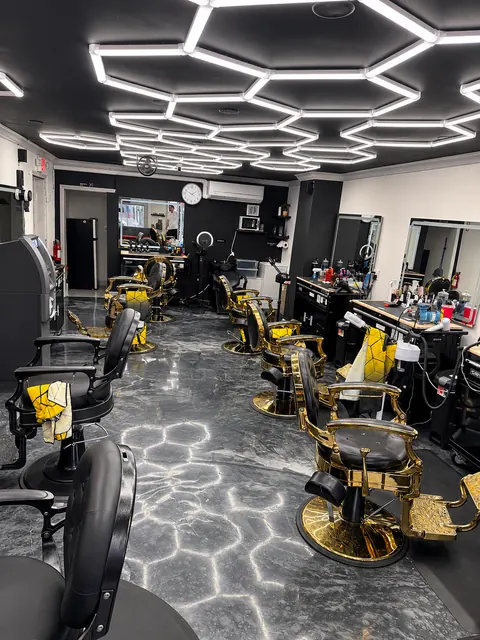
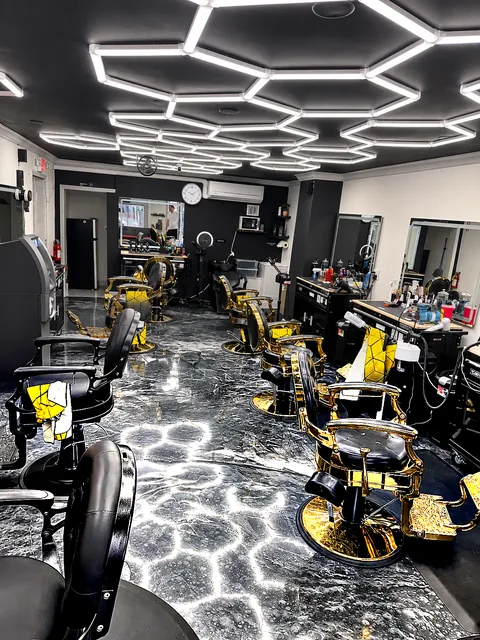
Preview: correct hours (Mon-Sat 9 AM-8 PM, Sun 10 AM-4 PM); brighter floor
- Hours updated in both hours lists, Spanish text, Google structured data,
  and the assistant's fact sheet (+ tests)
- Inside photo: floor given more contrast, clarity and brightness, blended
  in from where the floor starts; walls and ceiling unchanged

Claude-Session: https://claude.ai/code/session_01MXdPPVCrCnhk42nu3wu8wX

Changed region(s): [[0.0, 0.5, 1.0, 1.0], [0.875, 0.5312, 1.0, 0.6562]]

diff --git a/preview/index.html b/preview/index.html
@@ -92,13 +92,13 @@
           "Saturday"
         ],
         "opens": "09:00",
-        "closes": "21:00"
+        "closes": "20:00"
       },
       {
         "@type": "OpeningHoursSpecification",
         "dayOfWeek": "Sunday",
         "opens": "10:00",
-        "closes": "18:00"
+        "closes": "16:00"
       }
     ],
     "priceRange": "$25–$150+",
@@ -325,13 +325,13 @@
       <p class="air-kicker" data-i18n="chair.visit">Hours &amp; directions</p>
       <h2 class="air-title" id="st-visit-title">55 Chelsea St<br>East Boston, MA 02128</h2>
       <dl class="air-hours">
-        <div data-day="1"><dt data-i18n="day.mon">Monday</dt><dd data-i18n="hours.week">9 AM – 9 PM</dd></div>
-        <div data-day="2"><dt data-i18n="day.tue">Tuesday</dt><dd data-i18n="hours.week">9 AM – 9 PM</dd></div>
-        <div data-day="3"><dt data-i18n="day.wed">Wednesday</dt><dd data-i18n="hours.week">9 AM – 9 PM</dd></div>
-        <div data-day="4"><dt data-i18n="day.thu">Thursday</dt><dd data-i18n="hours.week">9 AM – 9 PM</dd></div>
-        <div data-day="5"><dt data-i18n="day.fri">Friday</dt><dd data-i18n="hours.week">9 AM – 9 PM</dd></div>
-        <div data-day="6"><dt data-i18n="day.sat">Saturday</dt><dd data-i18n="hours.week">9 AM – 9 PM</dd></div>
-        <div data-day="0"><dt data-i18n="day.sun">Sunday</dt><dd data-i18n="hours.sun">10 AM – 6 PM</dd></div>
+        <div data-day="1"><dt data-i18n="day.mon">Monday</dt><dd data-i18n="hours.week">9 AM – 8 PM</dd></div>
+        <div data-day="2"><dt data-i18n="day.tue">Tuesday</dt><dd data-i18n="hours.week">9 AM – 8 PM</dd></div>
+        <div data-day="3"><dt data-i18n="day.wed">Wednesday</dt><dd data-i18n="hours.week">9 AM – 8 PM</dd></div>
+        <div data-day="4"><dt data-i18n="day.thu">Thursday</dt><dd data-i18n="hours.week">9 AM – 8 PM</dd></div>
+        <div data-day="5"><dt data-i18n="day.fri">Friday</dt><dd data-i18n="hours.week">9 AM – 8 PM</dd></div>
+        <div data-day="6"><dt data-i18n="day.sat">Saturday</dt><dd data-i18n="hours.week">9 AM – 8 PM</dd></div>
+        <div data-day="0"><dt data-i18n="day.sun">Sunday</dt><dd data-i18n="hours.sun">10 AM – 4 PM</dd></div>
       </dl>
       <p class="air-fine" data-i18n="airport.title">2.2 miles from the airport</p>
       <div class="air-links">
@@ -670,16 +670,16 @@
           <table class="hours-table">
             <caption class="visually-hidden" data-i18n="hours.caption">Opening hours by day</caption>
             <tbody>
-              <tr data-day="1"><th scope="row" data-i18n="day.mon">Monday</th><td data-i18n="hours.week">9 AM – 9 PM</td></tr>
-              <tr data-day="2"><th scope="row" data-i18n="day.tue">Tuesday</th><td data-i18n="hours.week">9 AM – 9 PM</td></tr>
-              <tr data-day="3"><th scope="row" data-i18n="day.wed">Wednesday</th><td data-i18n="hours.week">9 AM – 9 PM</td></tr>
-              <tr data-day="4"><th scope="row" data-i18n="day.thu">Thursday</th><td data-i18n="hours.week">9 AM – 9 PM</td></tr>
-              <tr data-day="5"><th scope="row" data-i18n="day.fri">Friday</th><td data-i18n="hours.week">9 AM – 9 PM</td></tr>
-              <tr data-day="6"><th scope="row" data-i18n="day.sat">Saturday</th><td data-i18n="hours.week">9 AM – 9 PM</td></tr>
-              <tr data-day="0"><th scope="row" data-i18n="day.sun">Sunday</th><td data-i18n="hours.sun">10 AM – 6 PM</td></tr>
+              <tr data-day="1"><th scope="row" data-i18n="day.mon">Monday</th><td data-i18n="hours.week">9 AM – 8 PM</td></tr>
+              <tr data-day="2"><th scope="row" data-i18n="day.tue">Tuesday</th><td data-i18n="hours.week">9 AM – 8 PM</td></tr>
+              <tr data-day="3"><th scope="row" data-i18n="day.wed">Wednesday</th><td data-i18n="hours.week">9 AM – 8 PM</td></tr>
+              <tr data-day="4"><th scope="row" data-i18n="day.thu">Thursday</th><td data-i18n="hours.week">9 AM – 8 PM</td></tr>
+              <tr data-day="5"><th scope="row" data-i18n="day.fri">Friday</th><td data-i18n="hours.week">9 AM – 8 PM</td></tr>
+              <tr data-day="6"><th scope="row" data-i18n="day.sat">Saturday</th><td data-i18n="hours.week">9 AM – 8 PM</td></tr>
+              <tr data-day="0"><th scope="row" data-i18n="day.sun">Sunday</th><td data-i18n="hours.sun">10 AM – 4 PM</td></tr>
             </tbody>
           </table>
-          <p class="fine" data-i18n="hours.note">Hours from Booksy. Holiday hours may differ, so check Booksy before you come.</p>
+          <p class="fine" data-i18n="hours.note">Holiday hours may differ, so check Booksy before you come.</p>
         </div>
       </div>
 

diff --git a/backend/test/run.js b/backend/test/run.js
@@ -179,7 +179,7 @@ const say = (text, lang = "en", extra = []) => call("/api/chat", { messages: [..
   await test("System prompt contains every price, barber and hour, and the no-invent rule", () => {
     const p = systemPrompt("en");
     for (const s of ["$40", "$50", "$60", "$70", "$25", "from $150", "Andres Ospina", "Keven", "Dumar Gomez", "Jean Carlos",
-      "Kevin Tabares", "Santi Vélez", "9 AM – 9 PM", "10 AM – 6 PM", "55 Chelsea St", "(857) 334-9508", "Never invent"]) {
+      "Kevin Tabares", "Santi Vélez", "9 AM – 8 PM", "10 AM – 4 PM", "55 Chelsea St", "(857) 334-9508", "Never invent"]) {
       assert.ok(p.includes(s), "missing " + s);
     }
     assert.ok(systemPrompt("es").includes("use Spanish"));
@@ -191,7 +191,7 @@ const say = (text, lang = "en", extra = []) => call("/api/chat", { messages: [..
   });
   await test("Facts match the website's preview page", () => {
     const html = fs.readFileSync(path.resolve(__dirname, "../../preview/index.html"), "utf8");
-    for (const s of ["Andres Ospina", "Santi Vélez", "$150", "9 AM – 9 PM", "10 AM – 6 PM", "(857) 334-9508", "456"]) {
+    for (const s of ["Andres Ospina", "Santi Vélez", "$150", "9 AM – 8 PM", "10 AM – 4 PM", "(857) 334-9508", "456"]) {
       assert.ok(html.includes(s), "website no longer says " + s);
     }
   });

diff --git a/backend/lib/mock.js b/backend/lib/mock.js
@@ -26,8 +26,8 @@ function reply(messages, siteLang) {
       booking: null, escalate: { summary: "Customer asks about parking." } };
   }
   if (/hour|open|horario|abren|abierto/i.test(last)) {
-    return { text: L("We're open Monday to Saturday 9 AM – 9 PM, and Sunday 10 AM – 6 PM.",
-      "Abrimos de lunes a sábado de 9 a. m. a 9 p. m., y el domingo de 10 a. m. a 6 p. m."), booking: null, escalate: null };
+    return { text: L("We're open Monday to Saturday 9 AM – 8 PM, and Sunday 10 AM – 4 PM.",
+      "Abrimos de lunes a sábado de 9 a. m. a 8 p. m., y el domingo de 10 a. m. a 4 p. m."), booking: null, escalate: null };
   }
   if (/how much|price|cuánto|cuanto|precio/i.test(last) && !/book|reserv/i.test(last)) {
     return { text: beard

diff --git a/backend/lib/knowledge.js b/backend/lib/knowledge.js
@@ -20,10 +20,10 @@ const SHOP = {
   rating: "5.0 on Booksy from 456 reviews",
   languages: ["English", "Spanish"],
   hours: [
-    { days: "Monday to Saturday", hours: "9 AM – 9 PM" },
-    { days: "Sunday", hours: "10 AM – 6 PM" },
+    { days: "Monday to Saturday", hours: "9 AM – 8 PM" },
+    { days: "Sunday", hours: "10 AM – 4 PM" },
   ],
-  hoursNote: "Hours come from Booksy. Holiday hours may differ, so check Booksy before coming.",
+  hoursNote: "Hours confirmed by the shop (Nov 2026). Holiday hours may differ, so check Booksy before coming.",
 };
 
 const SERVICES = [

diff --git a/preview/main.js b/preview/main.js
@@ -78,9 +78,9 @@
     "visit.title": "Encuentra el local",
     "hours.title": "Horario",
     "hours.caption": "Horario por día",
-    "hours.week": "9 a. m. – 9 p. m.",
-    "hours.sun": "10 a. m. – 6 p. m.",
-    "hours.note": "Horario según Booksy. Los días festivos puede cambiar; revisa Booksy antes de venir.",
+    "hours.week": "9 a. m. – 8 p. m.",
+    "hours.sun": "10 a. m. – 4 p. m.",
+    "hours.note": "Los días festivos el horario puede cambiar; revisa Booksy antes de venir.",
     "day.mon": "Lunes",
     "day.tue": "Martes",
     "day.wed": "Miércoles",
